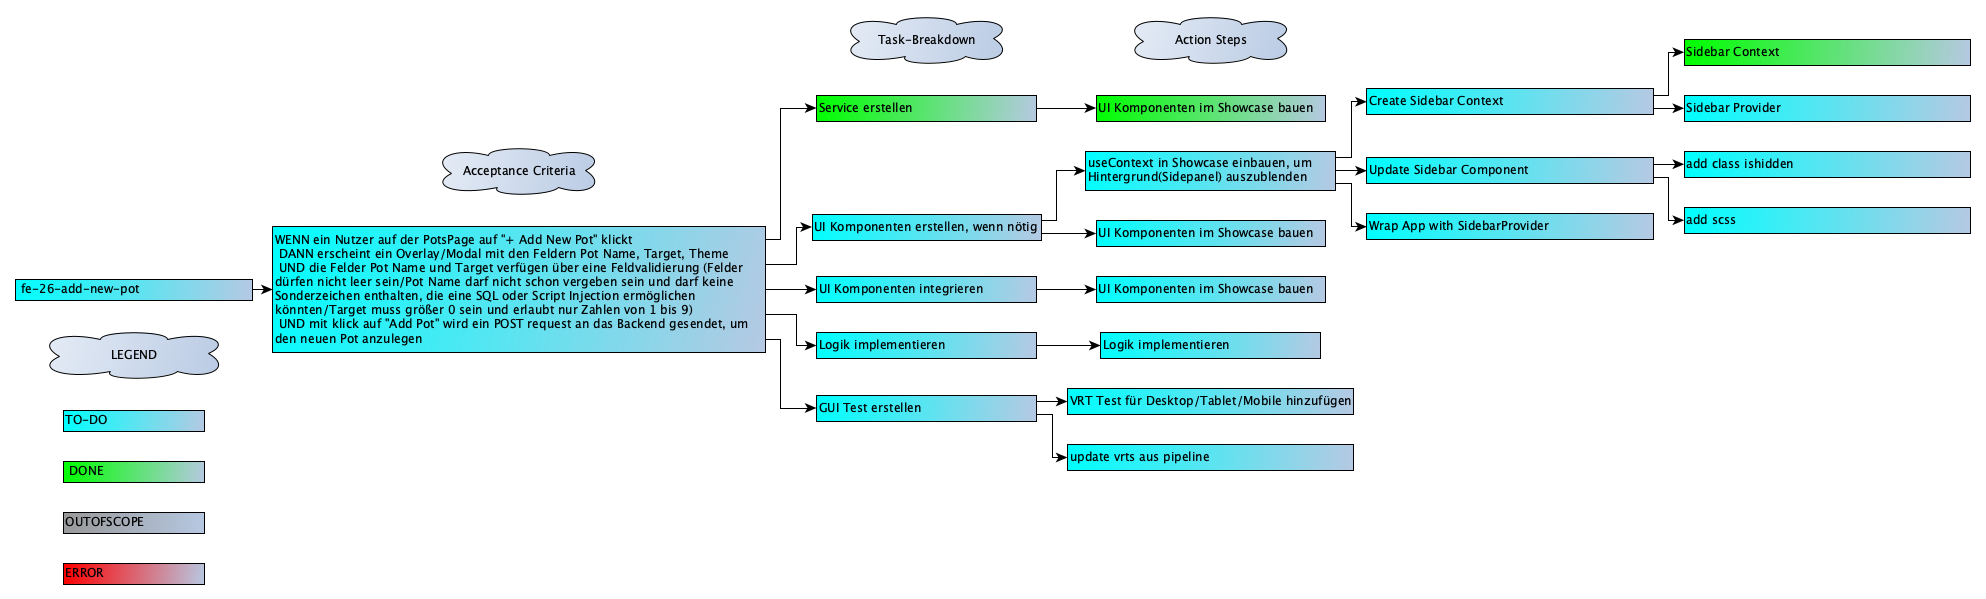
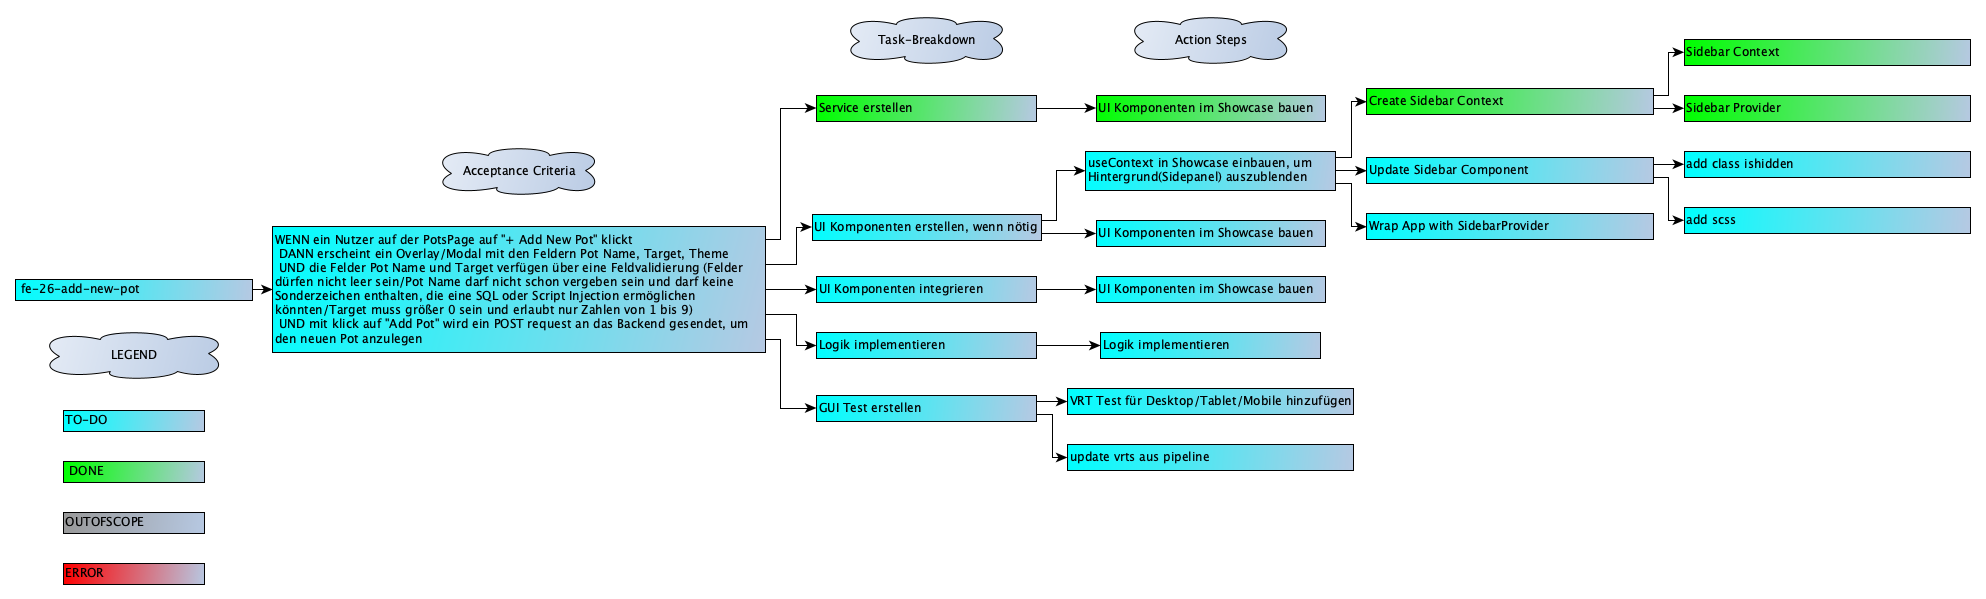
fe-26 create SidebarProvider

Changed region(s): [[0.6868, 0.1503, 0.999, 0.2104]]

diff --git a/frontend/src/components/provider/SidebarProvider.spec.tsx b/frontend/src/components/provider/SidebarProvider.spec.tsx
@@ -1,0 +1,42 @@
+import { createContext, ReactNode } from 'react';
+import { render, screen } from '@testing-library/react';
+import SidebarProvider from './SidebarProvider';
+
+jest.mock('react', () => ({
+  ...jest.requireActual('react'),
+  createContext: jest.fn(),
+}));
+
+describe('SidebarProvider', (): void => {
+  const children: ReactNode = <div data-testid="children"></div>;
+
+  const testProps: {
+    children: ReactNode;
+  } = {
+    children,
+  };
+
+  beforeEach((): void => {
+    (createContext as jest.Mock).mockReturnValue({
+      Provider: ({ children }: { children: ReactNode }) => (
+        <div data-testid="sidebar-context-provider">{children}</div>
+      ),
+    });
+  });
+
+  it('renders component SidebarContext.Provider', (): void => {
+    render(<SidebarProvider {...testProps}>{children}</SidebarProvider>);
+
+    const sidebarContextProvider: HTMLElement = screen.getByTestId('sidebar-context-provider');
+
+    expect(sidebarContextProvider).toBeInTheDocument();
+  });
+
+  it('renders children', (): void => {
+    render(<SidebarProvider {...testProps}>{children}</SidebarProvider>);
+
+    const component: HTMLElement = screen.getByTestId('children');
+
+    expect(component).toBeInTheDocument();
+  });
+});

diff --git a/frontend/src/components/provider/SidebarProvider.tsx b/frontend/src/components/provider/SidebarProvider.tsx
@@ -1,0 +1,26 @@
+import './SidebarProvider.scss';
+import { Context, createContext, ReactNode, useState } from 'react';
+import { ISidebarContext } from '../../model/ISidebarContext';
+
+interface Props {
+  children: ReactNode;
+}
+
+const SidebarProvider: ({ children }: Props) => ReactNode = ({ children }: Props): ReactNode => {
+  const [isHidden, setIsHidden] = useState(false);
+
+  const SidebarContext: Context<ISidebarContext | undefined> = createContext<
+    ISidebarContext | undefined
+  >(undefined);
+
+  return (
+    <SidebarContext.Provider
+      data-testid="sidebar-context-provider"
+      value={{ isHidden, setIsHidden }}
+    >
+      {children}
+    </SidebarContext.Provider>
+  );
+};
+
+export default SidebarProvider;

diff --git a/frontend/src/globals/hooks/useSidebar.spec.ts b/frontend/src/globals/hooks/useSidebar.spec.ts
@@ -7,20 +7,20 @@ jest.mock('react', () => ({
   useContext: jest.fn(),
 }));
 
-describe('useSidebar', () => {
+describe('useSidebar', (): void => {
   beforeEach(() => {
     (useContext as jest.Mock).mockReturnValue(
       createContext<ISidebarContext | undefined>(undefined)
     );
   });
 
-  it('returns SidebarContext', () => {
+  it('returns SidebarContext', (): void => {
     const result: ISidebarContext = useSidebar();
 
     expect(result).toBeDefined();
   });
 
-  it('throws if SidebarContext is undefined', () => {
+  it('throws if SidebarContext is undefined', (): void => {
     (useContext as jest.Mock).mockReturnValue(undefined);
 
     expect(() => useSidebar()).toThrow('useSidebar must be used within SidebarProvider');

diff --git a/frontend/src/globals/hooks/useSidebar.ts b/frontend/src/globals/hooks/useSidebar.ts
@@ -1,12 +1,11 @@
 import { createContext, useContext, Context } from 'react';
 import { ISidebarContext } from '../../model/ISidebarContext';
 
-const SidebarContext: Context<ISidebarContext | undefined> = createContext<
-  ISidebarContext | undefined
->(undefined);
-
 export const useSidebar: () => ISidebarContext = (): ISidebarContext => {
-  const context: ISidebarContext | undefined = useContext(SidebarContext);
+  const sidebarContext: Context<ISidebarContext | undefined> = createContext<
+    ISidebarContext | undefined
+  >(undefined);
+  const context: ISidebarContext | undefined = useContext(sidebarContext);
   if (!context) {
     throw new Error('useSidebar must be used within SidebarProvider');
   }
